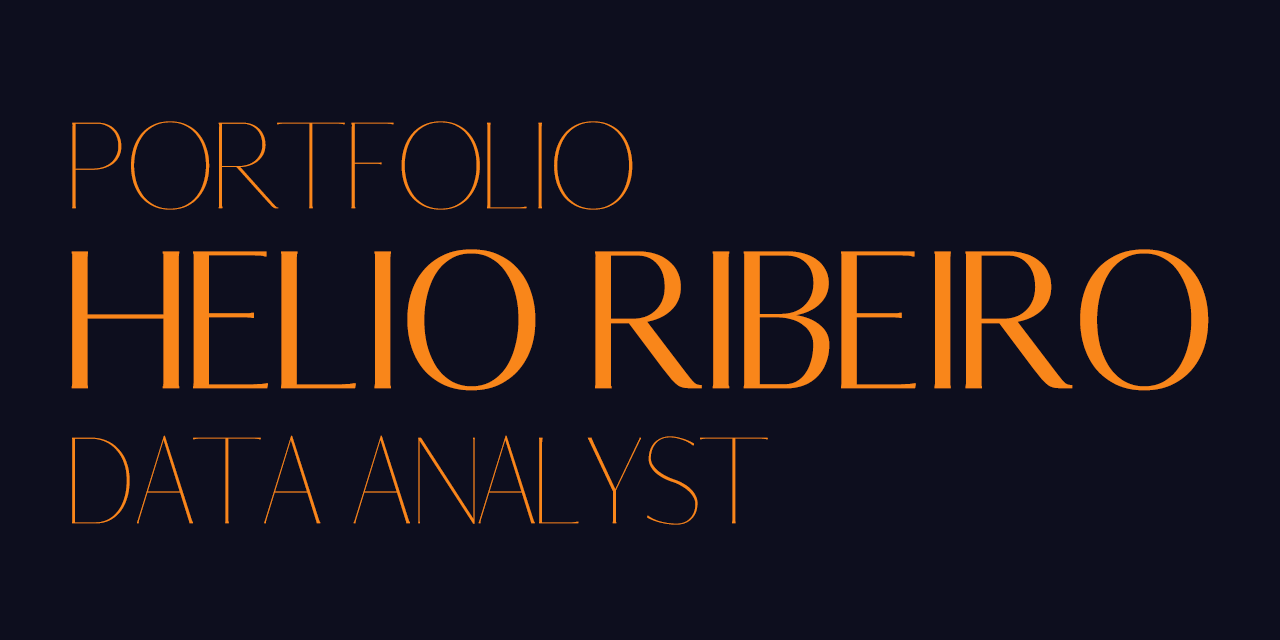
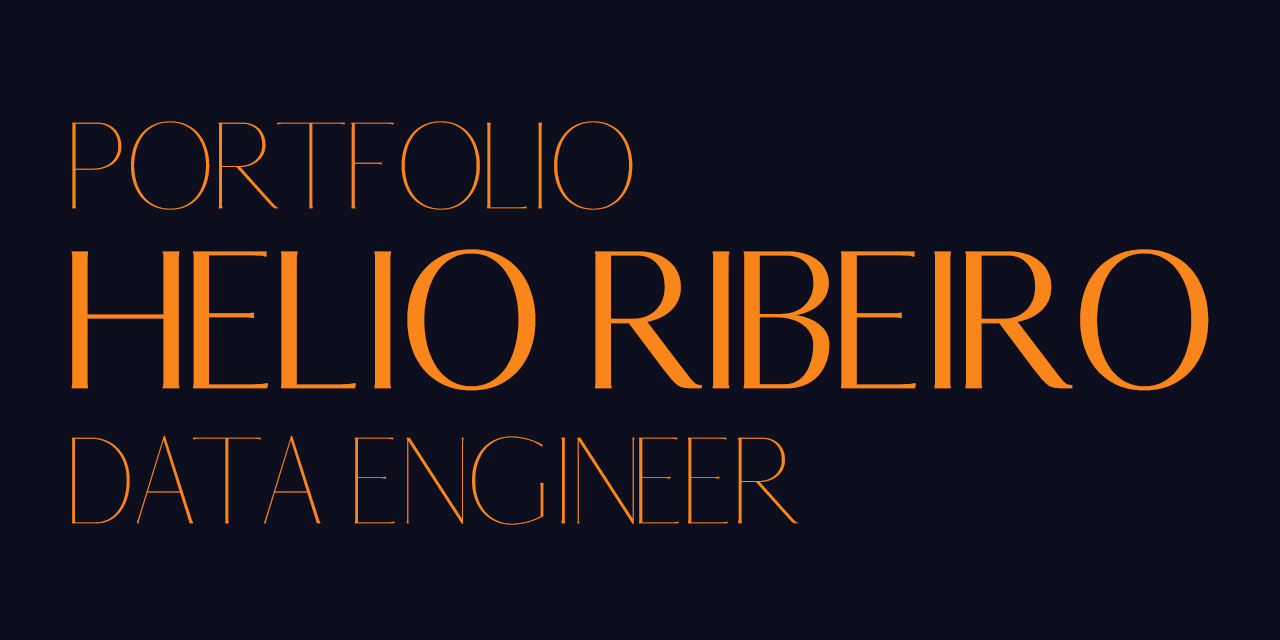
update info

Changed region(s): [[0.2812, 0.6562, 0.625, 0.8438]]

diff --git a/index.html b/index.html
@@ -16,7 +16,7 @@
     <!--- basic page needs
     ================================================== -->
     <meta charset="utf-8">
-    <title>Hélio Ribeiro | Data Analyst</title>
+    <title>Hélio Ribeiro | Data Engineer</title>
     <meta name="description" content="Welcome to my portfolio.">
     <meta name="author" content="Helio de Araujo Ribeiro">
 
@@ -103,7 +103,7 @@
                 <h1 id="hero-title-intro">
                     Welcome! <br>
                     I'm <strong>Hélio Ribeiro</strong>, <br>
-                    Data Analyst.
+                    Data Engineer.
                 </h1>
 
                 <ul class="hero-social">
@@ -160,7 +160,7 @@
                     <h3 data-aos="fade-up"></h3>
 
                     <p id="about-intro-font" data-aos="fade-up">
-                        Data Analyst focused on impact. Good with Python, SQL, Airflow, GCP, AWS, Spark and more. Comfortable with multi-cultural environments.<br><br>
+                        Data Engineer focused on impact. Good with Python, SQL, Airflow, GCP, AWS, Spark and more. Comfortable with multi-cultural environments.<br><br>
 
                         Able to build and deploy data pipelines, as well as run and explain machine learning algorithms and data analysis tasks.<br><br>
 
